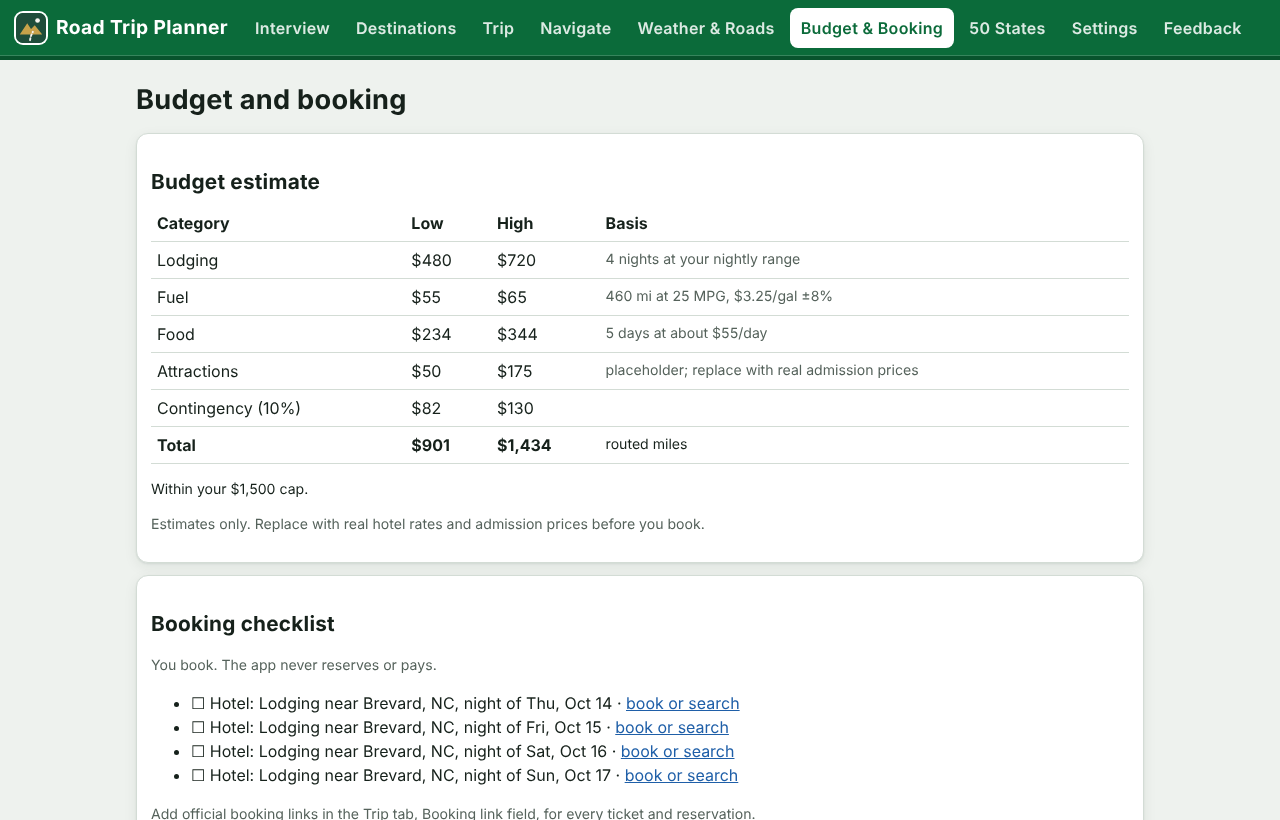
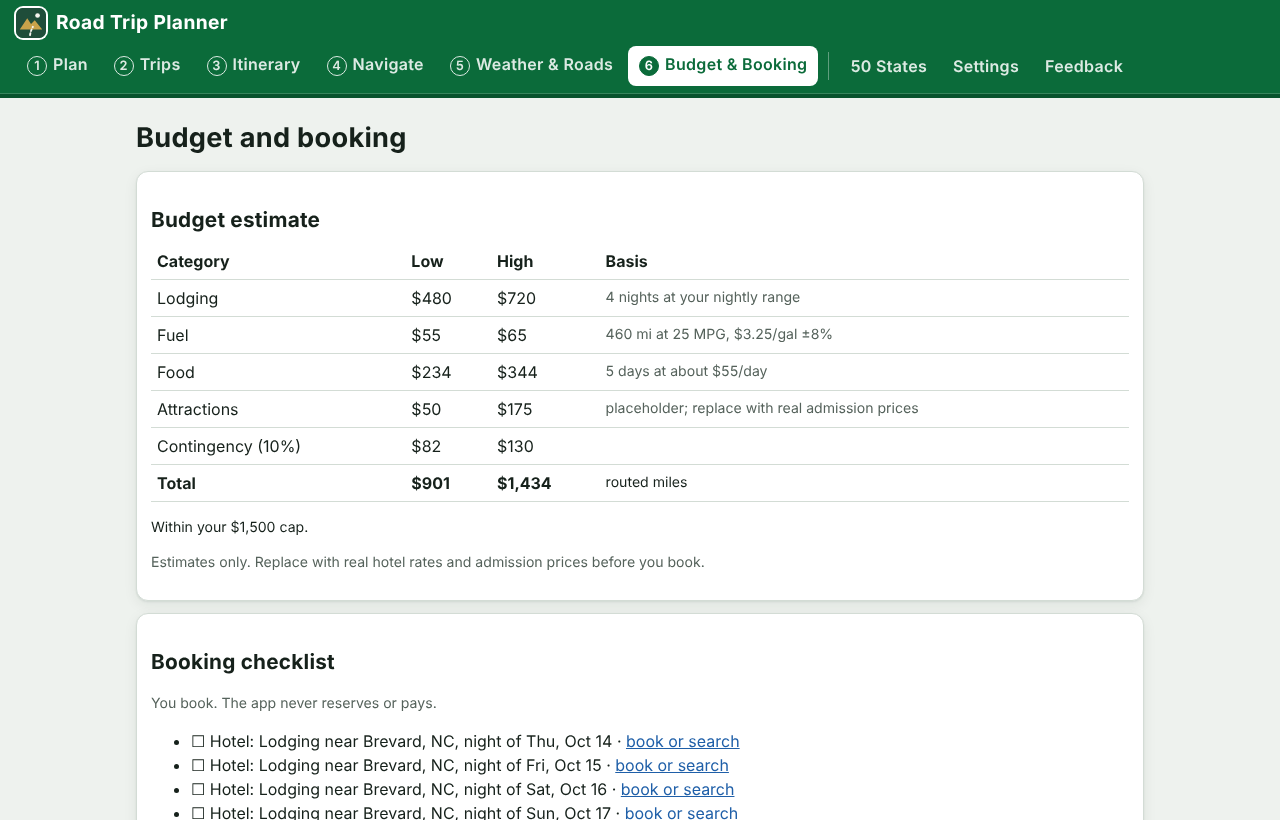
Next and Back on every step; numbered tabs; hint buttons
Planning now reads as six numbered steps: 1 Plan, 2 Trips, 3 Itinerary,
4 Navigate, 5 Weather & Roads, 6 Budget & Booking. Each step page ends
with a step bar (Step N of 6) holding Back and a large Next that names
the next step; step 6 ends with Save my trip. The first-draft hint now
holds real buttons for steps 4 to 6 instead of naming them.

Text that pointed at controls by old names now matches the app: Route
check is Check drive times (with a button where the text asks for it),
the Trip tab is the Itinerary, and free days point to the day-trip
buttons above. AI drafts get drive times checked like catalog drafts.
On phones the header scrolls away instead of covering a third of the
screen.

Tests: tests/test_flow.py walks Next through all six steps, checks the
step bar is last on every page, Back returns, and the hint buttons go
where they say. Screenshots and README updated; version 0.4.1.

Claude-Session: https://claude.ai/code/session_012tTfN871uxuhqeHTJwrePr

diff --git a/app/js/app.js b/app/js/app.js
@@ -7,7 +7,7 @@
   const MONTHS = ["Jan","Feb","Mar","Apr","May","Jun","Jul","Aug","Sep","Oct","Nov","Dec"];
   const DIETS = ["No restriction","Low carb or carnivore","Vegetarian","Vegan","Gluten free","Seafood friendly"];
   const HINT_TRIP = "rtp:tripHint";
-  const APP_VERSION = "0.4.0";
+  const APP_VERSION = "0.4.1";
   const REPO = "https://github.com/JBrady0850/road-trip-planner";
   const ICONS = new Set(["scenic","parks","waterfalls","beach","lighthouses","fishing","water","history","food","lights","hiking","caves","town"]);
   const icon = (k, cls = "ico") => ICONS.has(k) || k === "feedback" || k === "route" ? `<svg class="${cls}" aria-hidden="true"><use href="#i-${k}"></use></svg>` : "";
@@ -68,7 +68,7 @@
 
   function render() {
     const fn = { interview: vInterview, destinations: vDestinations, trip: vTrip, navigate: vNavigate, weather: vWeather, budget: vBudget, tracker: vTracker, settings: vSettings, feedback: vFeedback }[st.tab];
-    view.innerHTML = fn();
+    view.innerHTML = fn() + stepBar(st.tab);
     persist();
   }
 
@@ -121,6 +121,24 @@
   const scene = d => `<svg class="scene scene-${sceneKind(d)}" viewBox="0 0 320 80" preserveAspectRatio="xMidYMax slice" aria-hidden="true"><rect class="sky" width="320" height="80"/>${SCENE[sceneKind(d)]}</svg>`;
   const experiencesList = (list, cls = "") => list && list.length ? `<div class="exp ${cls}"><p class="exp-title">Only here</p><ul>${list.map(x => `<li>${esc(x)}</li>`).join("")}</ul></div>` : "";
 
+  // ---------- step bar ----------
+  // Planning runs in six steps; every step page ends with Back and Next so the way
+  // forward is always the button at the bottom.
+  const FLOW = [["interview", "Plan"], ["destinations", "Trips"], ["trip", "Itinerary"], ["navigate", "Navigate"], ["weather", "Weather & Roads"], ["budget", "Budget & Booking"]];
+  function stepBar(tab) {
+    const i = FLOW.findIndex(f => f[0] === tab); if (i < 0) return "";
+    const n = FLOW.length, prev = FLOW[i - 1], next = FLOW[i + 1], to = `<span aria-hidden="true">&rarr;</span>`;
+    let go = "";
+    if (tab === "interview") go = `<button class="btn big step-next" data-act="findDest">Next: Show me trips ${to}</button>`;
+    else if (tab === "destinations") go = (st.recs.length ? `<button class="btn big step-next" data-act="build" data-i="0">Next: Build the best match ${to}</button>` : "") + (st.trip ? `<button class="btn ghost" data-act="go" data-t="trip">Keep my current trip</button>` : "");
+    else if (!st.trip) go = `<button class="btn big step-next" data-act="go" data-t="interview">Plan a trip first</button>`;
+    else if (!next) go = `<button class="btn big step-next" data-act="saveTrip">Save my trip</button><button class="btn ghost" data-act="go" data-t="feedback">Give feedback</button>`;
+    else go = `<button class="btn big step-next" data-act="go" data-t="${next[0]}">Next: ${esc(next[1])} ${to}</button>`;
+    const back = prev ? `<button class="btn ghost step-back" data-act="go" data-t="${prev[0]}"><span aria-hidden="true">&larr;</span> Back: ${esc(prev[1])}</button>` : "";
+    const dots = FLOW.map((f, k) => `<span class="dot ${k < i ? "done" : k === i ? "on" : ""}"></span>`).join("");
+    return `<nav class="stepbar noprint" aria-label="Planning steps"><div class="step-where"><span class="step-count">Step ${i + 1} of ${n}</span><span class="step-name">${esc(FLOW[i][1])}</span><span class="dots" aria-hidden="true">${dots}</span></div><div class="step-actions">${back}${go}</div></nav>`;
+  }
+
   // ---------- interview ----------
   const chip = (act, k, label, on, extra = "") => `<button class="chip" data-act="${act}" data-k="${k}" aria-pressed="${on}" ${extra}>${icon(k)}${label}</button>`;
   function vInterview() {
@@ -165,8 +183,8 @@
       ${field("Where to", `<select data-bind="profile.destState" data-rescore="1"><option value="">Anywhere within reach</option>${RT_STATES.map(s => `<option value="${s.abbr}" ${p.destState === s.abbr ? "selected" : ""}>${s.name}</option>`).join("")}</select>`)}</div>
       <h2>What do you enjoy?</h2><p class="small muted">Three are picked already. Tap to change; more picks sharpen the ranking.</p>
       <div class="chips">${INTERESTS.map(([k, l]) => chip("interest", k, l, p.interests.includes(k))).join("")}</div>
-      <div class="row" style="margin:14px 0 6px"><button class="btn big" data-act="findDest">Show me trips</button><span class="small muted">Ranked for your interests, the season, and the drive from home.</span></div>
-      ${details}</div>`;
+      ${details}
+      <p class="small muted" style="margin:14px 0 0">When you are ready, tap <b>Next: Show me trips</b> below. Trips are ranked for your interests, the season, and the drive from home.</p></div>`;
   }
 
   function statesGrid(editable) {
@@ -242,7 +260,8 @@
     let n = 0;
     const status = st.busy ? `<p class="muted">${esc(st.busy)}</p>` : `<p class="small ${errs ? "lvl ERROR" : warns ? "lvl WARN" : "ok"}">${errs ? `${errs} problem${errs > 1 ? "s" : ""} to fix` : warns ? `${warns} thing${warns > 1 ? "s" : ""} to look at` : "Plan checks out"}${routed ? `; drive times checked for ${routed} of ${t.days.length} days` : "; drive times are estimates (Tools, Check drive times)"}.</p>`;
     return `<h1>${esc(t.name)}</h1>
-      ${st.tripHint ? `<div class="hint noprint"><div><b>Your trip is drafted and checked.</b> Tap <b>Edit</b> on any stop to change it, or add stops with the search box under each day. When you are ready: <b>Navigate</b> gives you the driving links, <b>Weather &amp; Roads</b> the forecast, and <b>Budget &amp; Booking</b> the costs and what to reserve.</div><button class="btn ghost small" data-act="hideTripHint">Got it</button></div>` : ""}
+      ${st.tripHint ? `<div class="hint noprint"><div><b>Your trip is drafted and checked.</b> Tap <b>Edit</b> on any stop to change it, or add a stop with the search box under each day. When it looks right, go on to the next steps, or use <b>Next</b> at the bottom of the page:
+        <div class="row" style="margin-top:8px"><button class="btn small" data-act="go" data-t="navigate">4 Navigate: driving links</button><button class="btn small ghost" data-act="go" data-t="weather">5 Weather &amp; Roads: forecast</button><button class="btn small ghost" data-act="go" data-t="budget">6 Budget &amp; Booking: costs</button></div></div><button class="btn ghost small" data-act="hideTripHint">Got it</button></div>` : ""}
       <div class="card noprint"><div class="row">
         <button class="btn" data-act="saveTrip">Save trip file</button>
         <button class="btn ghost" data-act="itinerary">Download itinerary</button>
@@ -282,9 +301,9 @@
         <button class="btn ghost" data-act="dlCsv">My Maps stops (.csv)</button>
         <button class="btn ghost" data-act="dlKml">Route layers (.kml)</button>
         <button class="btn ghost" data-act="dlLinks">Links sheet (.html)</button></div>
-        <p class="small muted">Google My Maps: create a map, import the CSV for pins, then import each day's KML as its own layer to draw the driving routes (run Route check first). The Google Maps phone app does not show My Maps routes, so use the links above on the road.</p></div>`;
+        <p class="small muted">Google My Maps: create a map, import the CSV for pins, then import each day's KML as its own layer to draw the driving routes (check drive times first: <button class="btn small ghost" data-act="routeAll">Check drive times</button>). The Google Maps phone app does not show My Maps routes, so use the links above on the road.</p></div>`;
   }
-  const noTrip = () => `<div class="card"><p>Build a trip first.</p><button class="btn" data-act="go" data-t="interview">Start the interview</button></div>`;
+  const noTrip = () => `<div class="card"><p>There is no trip yet. Plan one, then come back to this step.</p><div class="row"><button class="btn" data-act="go" data-t="interview">Plan a trip</button><label class="btn ghost">Load trip file<input type="file" accept=".json,application/json" data-act="loadTrip" hidden></label></div></div>`;
 
   // ---------- weather and roads ----------
   function vWeather() {
@@ -308,12 +327,12 @@
     return `<h1>Budget and booking</h1>
       <div class="card"><h2>Budget estimate</h2><div class="tablewrap"><table><tr><th>Category</th><th>Low</th><th>High</th><th>Basis</th></tr>
       ${b.lines.map(l => `<tr><td>${l[0]}</td><td>${money(l[1])}</td><td>${money(l[2])}</td><td class="small muted">${esc(l[3])}</td></tr>`).join("")}
-      <tr><th>Total</th><th>${money(b.total[0])}</th><th>${money(b.total[1])}</th><td class="small">${b.routed ? "routed miles" : "estimated miles; run Route check"}</td></tr></table></div>
+      <tr><th>Total</th><th>${money(b.total[0])}</th><th>${money(b.total[1])}</th><td class="small">${b.routed ? "routed miles" : `estimated miles <button class="btn small ghost" data-act="routeAll">Check drive times</button>`}</td></tr></table></div>
       <p class="${over > 0 ? "lvl WARN" : "small"}">${over > 0 ? `High estimate is ${money(over)} over your ${money(b.cap)} cap.` : `Within your ${money(b.cap)} cap.`}</p>
       <p class="small muted">Estimates only. Replace with real hotel rates and admission prices before you book.</p></div>
       <div class="card"><h2>Booking checklist</h2><p class="small muted">You book. The app never reserves or pays.</p><ul>
       ${book.map(x => x.type === "hotel" ? `<li>☐ Hotel: ${esc(x.s.name)}, night of ${U.dayLabel(x.d.date)} · ${x.s.booking_url ? `<a href="${esc(x.s.booking_url)}" target="_blank" rel="noopener">book or search</a>` : `<a href="${esc(RT.lodgingSearchUrl(st.profile.lodging.brand, x.s.address))}" target="_blank" rel="noopener">search hotels</a>`}</li>` : `<li>☐ ${esc(x.s.name)}, ${U.dayLabel(x.d.date)}${x.s.timed_entry ? ` (entry ${U.hm12(x.s.timed_entry)})` : ""} ${x.s.booking_url ? `· <a href="${esc(x.s.booking_url)}" target="_blank" rel="noopener">book</a>` : ""}</li>`).join("")}</ul>
-      <p class="small muted">Add official booking links in the Trip tab, Booking link field, for every ticket and reservation.</p></div>`;
+      <p class="small muted">To add a booking link, open the itinerary, tap <b>Edit</b> on the stop, and fill in <b>Booking link</b>. <button class="btn small ghost" data-act="go" data-t="trip">Open the itinerary</button></p></div>`;
   }
 
   // ---------- tracker ----------
@@ -453,7 +472,7 @@
     aiOpen: async () => { const notes = prompt("Describe the trip you want (places, pace, must-sees):") || ""; await aiBuild(null, notes); },
     check: () => { runCheck(); render(); },
     routeAll: async () => { const t = st.trip; let ok = 0, skip = 0; for (const d of t.days) { st.busy = `Routing ${U.dayLabel(d.date)}…`; render(); try { st.routes[d.date] = await RT.services.routeDay(d); ok++; } catch (e) { skip++; } } st.busy = ""; runCheck(); render(); toast(`Routed ${ok} day(s)${skip ? `, skipped ${skip} (missing coordinates or offline)` : ""}`); },
-    retime: () => { let n = 0; st.trip.days.forEach(d => { if (RT.retimeDay(d, st.routes[d.date])) n++; }); runCheck(); render(); toast(n ? `Re-timed ${n} day(s) from routed drive times` : "Run Route check first"); },
+    retime: () => { let n = 0; st.trip.days.forEach(d => { if (RT.retimeDay(d, st.routes[d.date])) n++; }); runCheck(); render(); toast(n ? `Re-timed ${n} day(s) from routed drive times` : "Tap Check drive times first"); },
     saveTrip: () => download(`${slug(st.trip.name)}.json`, RT.tripJson(st.trip, st.profile), "application/json"),
     clearTrip: () => { if (confirmBox("Clear the current trip?")) { st.trip = null; st.routes = {}; st.findings = []; st.weather = []; render(); } },
     print: () => window.print(),
@@ -466,7 +485,7 @@
     share: async () => { const text = linksText(); if (navigator.share) { try { await navigator.share({ title: st.trip.name, text }); return; } catch (e) { if (e.name === "AbortError") return; } } location.href = `mailto:?subject=${encodeURIComponent(st.trip.name)}&body=${encodeURIComponent(text.slice(0, 1800))}`; },
     dlIcs: () => { stampTZ(st.trip); download(`${slug(st.trip.name)}.ics`, RT.ics(st.trip), "text/calendar"); },
     dlCsv: () => download(`${slug(st.trip.name)}-mymaps.csv`, RT.csv(st.trip), "text/csv"),
-    dlKml: () => { const t = st.trip; let n = 0; const files = t.days.map((d, i) => { const r = st.routes[d.date]; if (r) n++; return { name: `${slug(t.name)}-day${i + 1}.kml`, text: RT.kmlDay(t, i, r), type: "application/vnd.google-earth.kml+xml" }; }); saveFiles(files, n ? "" : " Pins only; run Route check on the Trip tab for route lines."); },
+    dlKml: () => { const t = st.trip; let n = 0; const files = t.days.map((d, i) => { const r = st.routes[d.date]; if (r) n++; return { name: `${slug(t.name)}-day${i + 1}.kml`, text: RT.kmlDay(t, i, r), type: "application/vnd.google-earth.kml+xml" }; }); saveFiles(files, n ? "" : " Pins only; tap Check drive times (Itinerary, Tools) for route lines."); },
     dlLinks: () => download(`${slug(st.trip.name)}-links.html`, linksHtml(), "text/html"),
     weather: async () => { st.weather = []; const seen = new Set(); for (const d of st.trip.days) for (const s of d.stops) { if (s.lat == null || s.lat === "") continue; const k = `${d.date}|${(+s.lat).toFixed(2)}|${(+s.lon).toFixed(2)}`; if (seen.has(k)) continue; seen.add(k); st.busy = `Checking ${s.name}…`; try { const w = await RT.services.weatherFor(s.lat, s.lon, d.date); if (w.tz) d.tz = w.tz; st.weather.push({ day: U.dayLabel(d.date), stop: s.name, ...w }); } catch (e) { st.weather.push({ day: U.dayLabel(d.date), stop: s.name, forecast: [`UNVERIFIED: weather service unavailable (${e.message})`], alerts: [], page: RT.services.forecastPage(s.lat, s.lon) }); } render(); } st.busy = ""; runCheck(); render(); },
     markDone: () => { const v = new Set(st.profile.visited); (st.trip.states || []).forEach(s => v.add(s)); st.profile.visited = [...v]; toast("States marked visited"); render(); },
@@ -480,7 +499,7 @@
 
   async function aiBuild(dest, notes) {
     st.busy = "Asking the AI to draft an itinerary…"; setTab("trip");
-    try { const t = await RT.services.aiDraft(st.profile, dest, st.startDate, +st.nights, notes); st.trip = t; st.routes = {}; runCheck(); toast("AI draft ready. It is a draft: run Route check and verify every detail."); }
+    try { const t = await RT.services.aiDraft(st.profile, dest, st.startDate, +st.nights, notes); st.trip = t; st.routes = {}; runCheck(); render(); await routeAndRetime(); toast("AI draft ready. It is a draft: verify every detail before you book."); }
     catch (e) { toast(e.message); }
     st.busy = ""; render();
   }

diff --git a/app/css/style.css b/app/css/style.css
@@ -42,6 +42,9 @@ button, input, select, textarea { font: inherit; color: inherit; }
 #tabs button { border: 0; background: transparent; padding: 8px 11px; border-radius: 8px; cursor: pointer; white-space: nowrap; color: var(--sign-ink); opacity: .86; min-height: 40px; font: 600 1rem/1 var(--display); letter-spacing: .02em; }
 #tabs button:hover { opacity: 1; background: rgba(255,255,255,.12); }
 #tabs button[aria-selected="true"] { background: var(--sign-ink); color: var(--sign); opacity: 1; }
+#tabs .stepno { display: inline-flex; align-items: center; justify-content: center; width: 20px; height: 20px; margin-right: 6px; border-radius: 50%; border: 1.5px solid currentColor; font-size: .8rem; line-height: 1; }
+#tabs button[aria-selected="true"] .stepno { background: var(--sign); color: var(--sign-ink); border-color: var(--sign); }
+.tab-gap { width: 1px; align-self: stretch; margin: 6px 6px; background: rgba(255,255,255,.35); }
 
 main { width: 100%; max-width: 1040px; margin: 0 auto; padding: 16px 16px max(16px, env(safe-area-inset-bottom)); flex: 1; }
 h1, h2, h3 { font-family: var(--display); letter-spacing: .01em; }
@@ -127,6 +130,16 @@ details.inline { margin: 0; display: inline-block; } details.inline > summary { 
 .shield small { font-size: .5rem; letter-spacing: .1em; margin-bottom: 7px; }
 .dayhead h2 { font-size: 1.2rem; }
 
+/* step bar: the way forward is always the button at the bottom */
+.stepbar { margin: 18px 0 6px; padding: 14px 16px; background: var(--panel); border: 1px solid var(--line); border-top: 5px solid var(--sign); border-radius: var(--radius); box-shadow: var(--shadow); display: flex; flex-wrap: wrap; gap: 12px 18px; align-items: center; justify-content: space-between; }
+.step-where { display: flex; flex-wrap: wrap; align-items: center; gap: 4px 10px; }
+.step-count { font: 700 .8rem/1 var(--display); letter-spacing: .1em; text-transform: uppercase; color: var(--muted); }
+.step-name { font: 700 1.15rem/1.1 var(--display); }
+.dots { display: inline-flex; gap: 5px; } .dot { width: 9px; height: 9px; border-radius: 50%; background: var(--line); } .dot.done { background: var(--hill-near); } .dot.on { background: var(--caution); box-shadow: 0 0 0 2px var(--sign); }
+.step-actions { display: flex; flex-wrap: wrap; gap: 10px; align-items: center; margin-left: auto; }
+.step-actions .btn.big { min-width: 220px; justify-content: center; }
+@media (max-width: 600px) { .step-actions { width: 100%; margin-left: 0; } .step-actions .btn { flex: 1 1 100%; justify-content: center; } .step-actions .step-next { order: -1; } }
+
 /* feedback */
 .ease { display: flex; gap: 8px; flex-wrap: wrap; }
 .ease-btn { width: 64px; min-height: 52px; border: 1px solid var(--line); border-radius: 10px; background: var(--panel); cursor: pointer; font: 700 1.2rem/1 var(--display); display: flex; flex-direction: column; align-items: center; justify-content: center; gap: 2px; }
@@ -171,4 +184,4 @@ main:focus { outline: none; }
 .foot-note { margin: 0; opacity: .85; }
 
 @media print { .install, .top, .noprint, #toast, .hero, .foot { display: none !important; } body { background: #fff; color: #000; } .card { box-shadow: none; break-inside: avoid; } }
-@media (max-width: 600px) { main { padding: 12px; } .stop { grid-template-columns: 28px 1fr; } .sign { margin: 12px; padding: 12px 14px 14px; } .sign h1 { font-size: 1.8rem; } .hero { min-height: 190px; } }
+@media (max-width: 600px) { .top { position: static; } main { padding: 12px; } .stop { grid-template-columns: 28px 1fr; } .sign { margin: 12px; padding: 12px 14px 14px; } .sign h1 { font-size: 1.8rem; } .hero { min-height: 190px; } }

diff --git a/app/js/engine.js b/app/js/engine.js
@@ -10,7 +10,7 @@
   const hm12 = t => { if (!t) return ""; let [h, m] = t.split(":").map(Number); const ap = h >= 12 ? "p.m." : "a.m."; h = h % 12 || 12; return `${h}:${String(m).padStart(2, "0")} ${ap}`; };
   const haversineMi = (a, b) => { const R = 3958.8, r = x => x * Math.PI / 180; const dLat = r(b[0] - a[0]), dLon = r(b[1] - a[1]); const s = Math.sin(dLat / 2) ** 2 + Math.cos(r(a[0])) * Math.cos(r(b[0])) * Math.sin(dLon / 2) ** 2; return 2 * R * Math.asin(Math.sqrt(s)); };
   // Road distance is typically about 1.2 times straight-line; about 58 mph average
-  // across interstates and slower roads. Route check replaces this with routed times.
+  // across interstates and slower roads. Check drive times replaces this with routed times.
   const estDriveHours = (a, b) => haversineMi(a, b) * 1.2 / 58;
   const dayLabel = iso => { const d = new Date(iso + "T12:00:00"); return d.toLocaleDateString("en-US", { weekday: "short", month: "short", day: "numeric" }); };
   const addDays = (iso, n) => { const d = new Date(iso + "T12:00:00"); d.setDate(d.getDate() + n); return d.toISOString().slice(0, 10); };
@@ -133,7 +133,7 @@
   };
   const freeNote = (trip, catalog, profile) => {
     const near = catalog ? RT.nearbyDestinations(trip, catalog, profile).slice(0, 3) : [];
-    return near.length ? `Free day. Ideas within reach: ${near.map(n => `${n.dest.name} (${hoursText(n.hours)} away)`).join("; ")}. Use "Add a day trip" below, or search for your own stops.` : "Free day: add stops with the search box below.";
+    return near.length ? `Free day. Ideas within reach: ${near.map(n => `${n.dest.name} (${hoursText(n.hours)} away)`).join("; ")}. Tap one of the "Free days: add a day trip" buttons near the top of this page, or search for your own stops below.` : "Free day: add stops with the search box below.";
   };
 
   /* Draft a trip: drive days to and from the base, then sightseeing days packed to
@@ -286,7 +286,7 @@
         else if (h > r.maxDriveHours - 0.5) add("WARN", day, "drive cap", `${h.toFixed(1)} h is within 30 min of the cap; routing has no traffic data`);
       } else if (!route) {
         let est = 0; for (let k = 1; k < st.length; k++) { const a = st[k - 1], b = st[k]; if (hasXY(a) && hasXY(b)) est += estDriveHours([+a.lat, +a.lon], [+b.lat, +b.lon]); }
-        if (est > r.maxDriveHours) add("WARN", day, "drive cap", `about ${est.toFixed(1)} h estimated driving; run Route check for routed times`);
+        if (est > r.maxDriveHours) add("WARN", day, "drive cap", `about ${est.toFixed(1)} h estimated driving; tap Check drive times for routed times`);
       }
       st.forEach(s => { if (s.checkin && s.arrive) { const diff = toMin(s.arrive) - toMin(r.checkinTarget); if (Math.abs(diff) > r.checkinWindow) add("WARN", day, "check-in", `${s.name} check-in ${hm12(s.arrive)} is ${Math.abs(diff)} min ${diff > 0 ? "after" : "before"} the ${hm12(r.checkinTarget)} target`); } });
       st.forEach(s => { if (s.timed_entry && s.arrive && toMin(s.arrive) > toMin(s.timed_entry) - r.ticketMargin) add("WARN", day, "tickets", `${s.name}: arrive ${hm12(s.arrive)} leaves less than ${r.ticketMargin} min before the ${hm12(s.timed_entry)} entry`); });

diff --git a/app/index.html b/app/index.html
@@ -36,12 +36,13 @@
 <header class="top">
   <div class="brand"><img src="icon.svg" alt="" width="30" height="30"><span>Road Trip Planner</span></div>
   <nav id="tabs" role="tablist" aria-label="Sections">
-    <button data-tab="interview" role="tab">Interview</button>
-    <button data-tab="destinations" role="tab">Destinations</button>
-    <button data-tab="trip" role="tab">Trip</button>
-    <button data-tab="navigate" role="tab">Navigate</button>
-    <button data-tab="weather" role="tab">Weather &amp; Roads</button>
-    <button data-tab="budget" role="tab">Budget &amp; Booking</button>
+    <button data-tab="interview" role="tab"><span class="stepno" aria-hidden="true">1</span>Plan</button>
+    <button data-tab="destinations" role="tab"><span class="stepno" aria-hidden="true">2</span>Trips</button>
+    <button data-tab="trip" role="tab"><span class="stepno" aria-hidden="true">3</span>Itinerary</button>
+    <button data-tab="navigate" role="tab"><span class="stepno" aria-hidden="true">4</span>Navigate</button>
+    <button data-tab="weather" role="tab"><span class="stepno" aria-hidden="true">5</span>Weather &amp; Roads</button>
+    <button data-tab="budget" role="tab"><span class="stepno" aria-hidden="true">6</span>Budget &amp; Booking</button>
+    <span class="tab-gap" aria-hidden="true"></span>
     <button data-tab="tracker" role="tab">50 States</button>
     <button data-tab="settings" role="tab">Settings</button>
     <button data-tab="feedback" role="tab">Feedback</button>

diff --git a/app/sw.js b/app/sw.js
@@ -2,7 +2,7 @@
    connected device always gets the newest version; the cached copy is used only
    when offline. Live services (routing, weather, place search, AI) still need a
    connection and are never cached. Bump VERSION when the file list changes. */
-const VERSION = "rtp-v0.4.0";
+const VERSION = "rtp-v0.4.1";
 const FILES = ["./", "index.html", "css/style.css", "js/engine.js", "js/services.js", "js/app.js",
   "data/catalog.js", "data/states.js", "manifest.webmanifest", "icon.svg", "icon-180.png",
   "icon-192.png", "icon-512.png", "icon-maskable-512.png", "qr-app.png"];

diff --git a/tests/test_flow.py b/tests/test_flow.py
@@ -1,0 +1,68 @@
+"""Step-by-step flow: every planning page ends with Back and Next buttons, the tabs
+carry the same step numbers, and every place the app tells you to go somewhere
+offers a real button that goes there."""
+from pathlib import Path
+
+import pytest
+from playwright.sync_api import sync_playwright
+
+APP = (Path(__file__).resolve().parents[1] / "app" / "index.html").as_uri()
+HOME = '{label: "Knoxville, TN", lat: 35.9606, lon: -83.9207, state: "Tennessee"}'
+STEPS = [("interview", "Plan"), ("destinations", "Trips"), ("trip", "Itinerary"),
+         ("navigate", "Navigate"), ("weather", "Weather & Roads"), ("budget", "Budget & Booking")]
+
+
+@pytest.fixture(scope="module")
+def page():
+    with sync_playwright() as p:
+        b = p.chromium.launch()
+        ctx = b.new_context(viewport={"width": 834, "height": 1194}, accept_downloads=True)
+        pg = ctx.new_page()
+        pg.route("https://router.project-osrm.org/**", lambda r: r.abort())  # offline: drive times stay estimates
+        pg.goto(APP)
+        pg.evaluate("localStorage.clear()")
+        pg.reload()
+        pg.evaluate(f"RT.state.profile.home = {HOME}")
+        yield pg
+        b.close()
+
+
+def current_tab(page):
+    return page.get_attribute("#tabs button[aria-selected=true]", "data-tab")
+
+
+def test_tabs_show_the_step_numbers(page):
+    for i, (tab, name) in enumerate(STEPS, start=1):
+        label = page.inner_text(f"#tabs [data-tab={tab}]")
+        assert label.startswith(str(i)) and name.lower() in label.lower(), (tab, label)
+
+
+def test_next_walks_through_every_step_and_back_returns(page):
+    page.click("#tabs [data-tab=interview]")
+    for i, (tab, name) in enumerate(STEPS, start=1):
+        bar = page.locator(".stepbar")
+        assert bar.count() == 1, f"{tab}: no step bar at the end of the page"
+        assert f"step {i} of {len(STEPS)}" in bar.inner_text().lower(), bar.inner_text()
+        last = page.evaluate("[...document.querySelector('#view').children].pop().className")
+        assert "stepbar" in last, f"{tab}: the step bar is not the last thing on the page"
+        if i == len(STEPS):
+            assert bar.locator("[data-act=saveTrip]").count() == 1, "the last step saves the trip"
+            break
+        nxt = bar.locator(".step-next")
+        assert STEPS[i][1].split(" ")[0].lower() in nxt.inner_text().lower() or i == 2, nxt.inner_text()
+        nxt.click()
+        page.wait_for_function(f"document.querySelector('#tabs button[aria-selected=true]').dataset.tab === '{STEPS[i][0]}'", timeout=15000)
+    page.locator(".stepbar .step-back").click()
+    assert current_tab(page) == "weather"
+
+
+def test_the_trip_hint_offers_real_buttons(page):
+    page.evaluate("localStorage.removeItem('rtp:tripHint')")
+    page.click("#tabs [data-tab=destinations]")
+    page.locator(".stepbar .step-next").click()
+    page.wait_for_selector(".hint", timeout=15000)
+    hint = page.locator(".hint")
+    for tab in ("navigate", "weather", "budget"):
+        assert hint.locator(f"button[data-act=go][data-t={tab}]").count() == 1, f"hint names {tab} without a button"
+    hint.locator("button[data-t=navigate]").click()
+    assert current_tab(page) == "navigate"

diff --git a/tests/make_screenshots.py b/tests/make_screenshots.py
@@ -81,6 +81,7 @@ def main():
             page.click("summary:has-text('Tools')")
             page.click("[data-act=check]")
             page.click("[data-act=toggleStop][data-d='0'][data-s='1']")
+            page.evaluate("window.scrollTo(0, 0)")
             shot("03-trip-check")
 
             page.click("#tabs [data-tab=navigate]")

diff --git a/README.md b/README.md
@@ -43,11 +43,20 @@ these same steps the first time you open it on a tablet, and again under
 Each device keeps its own trips. To move a trip to another device, use
 **Settings, Back up all data**, then **Restore from file** on the other device.
 
+## Six steps, one button at a time
+
+The tabs across the top are numbered in the order you plan: **1 Plan**, **2 Trips**,
+**3 Itinerary**, **4 Navigate**, **5 Weather & Roads**, **6 Budget & Booking**. Every
+step ends with a **Next** button that takes you to the following step, and a
+**Back** button. The last step ends with **Save my trip**. 50 States, Settings, and
+Feedback are always one tap away on the right.
+
 ## Save your trips
 
 The app keeps your trips on the device automatically, so they are there the next
 time you open it. To keep a trip as a file you can store, copy, or open somewhere
-else, open the **Trip** tab and tap **Save trip file**.
+else, open step **3 Itinerary** and tap **Save trip file**, or tap **Save my trip**
+at the end of step 6.
 
 | Device | Where the file goes |
 |---|---|
@@ -56,7 +65,7 @@ else, open the **Trip** tab and tap **Save trip file**.
 | Computer, in a browser | Your **Downloads** folder |
 | Computer, desktop window | A **Save** dialog opens so you choose the folder |
 
-To open it again, on the same device or a different one, use **Trip, Load trip
+To open it again, on the same device or a different one, use **3 Itinerary, Load trip
 file**. **Settings, Back up all data** saves everything at once: trips, settings,
 and states visited. The itinerary, calendar, map, and links files save the same
 way. Trip files also open in the command-line version, and its trip files open in
@@ -122,7 +131,7 @@ works: upload the `app` folder as is.
    sunset, days that do not start where the last one ended, and stops without
    coordinates.
 5. **Drive times:** real drive times from the free OSRM router, applied to every
-   arrival and departure automatically; rerun any time from **Tools** on the Trip tab.
+   arrival and departure automatically; rerun any time from **Tools** on the Itinerary page.
 6. **Navigate:** Google Maps links with every stop for each day (split automatically
    above the Google Maps app limit of 9 waypoints), Waze links for each stop (Waze
    takes one destination per link), a calendar file, My Maps CSV pins, and KML route

diff --git a/docs/LIMITS.md b/docs/LIMITS.md
@@ -10,7 +10,7 @@
 | NWS forecasts reach about 7 days ahead | Far-off dates show no forecast | Shows "Not yet available"; check again 48 hours before you leave |
 | OpenStreetMap place search allows about 1 request per second | Fast typing can be throttled | Searches are queued one per second; add a contact email in Settings |
 | Catalog hours, fees, and seasonal road closures change | A stop can be closed | Every itinerary says to verify; the AI prompt marks unverified details |
-| Straight-line drive estimates in the destination list | Mountain routes take longer | Route check replaces estimates with routed times |
+| Straight-line drive estimates in the destination list | Mountain routes take longer | Check drive times replaces estimates with routed times |
 | Data lives in one browser on one device | Clearing site data erases it | Settings, Back up all data; restore on any device |
 | No ratings for places | The app cannot say how highly a place is rated | The free services the app uses carry no ratings; rating services need paid keys. The catalog lists widely known, visitor-open places instead |
 | Posting feedback on GitHub needs a free account | Some testers cannot post | Save as a file or Copy text on the Feedback card |
